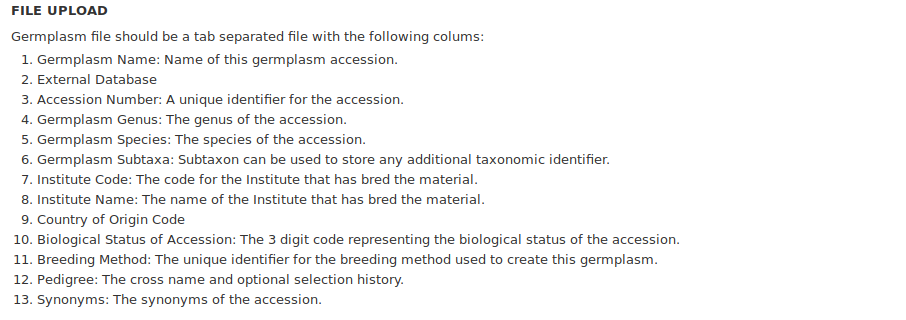
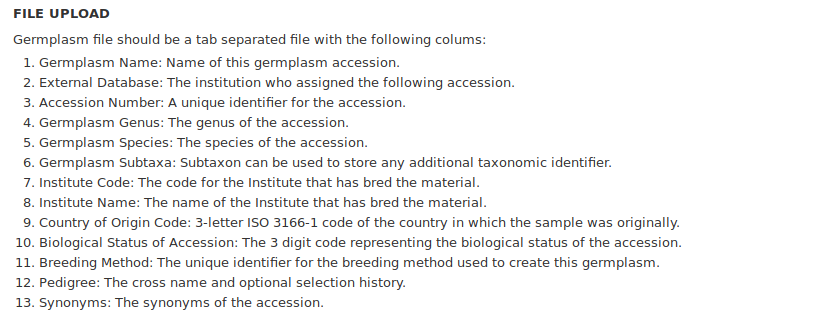
Prepare last test on KP/fresh, and creat PR.

Changed region(s): [[0.0, 0.0938, 0.8162, 0.9688], [0.0, 0.0, 0.1511, 0.0625]]

diff --git a/docs/features/germplasm_accession_importer.rst b/docs/features/germplasm_accession_importer.rst
@@ -7,8 +7,16 @@ Format requirements for upload files can be found easily in UI while using this 
 
 .. image:: accession.1.file_format.png
 
-Genus
------
+.. note::
+
+  For column 2 (External Database), the name in file must exist in your database in chado table:db already.
+
+  For column 12 (Pedigree), pedigree information is recommended to save in format of ``maternal-parent-name/paternal-parent-name``.
+
+  For column 13 (Synonyms), multiple synonyms are allowed but must be separated by pounctuation marks. Like, ``syn1;syn2;syn3``.
+
+Select Genus
+------------
 Genus of the accessions in file must be selected from dropdown menu before upload. All accessions in one file must belong to same genus and match this selection.
 
 .. image:: accession.2.genus.png
@@ -29,3 +37,7 @@ The general idea of how accession information will be saved in database:
 - properties will be loaded into table stockprop
 
 - synonyms will be loaded into table synonym and stock_synonym
+
+A diagram:
+
+.. image:: accession.3.ER_diagram.jpg
